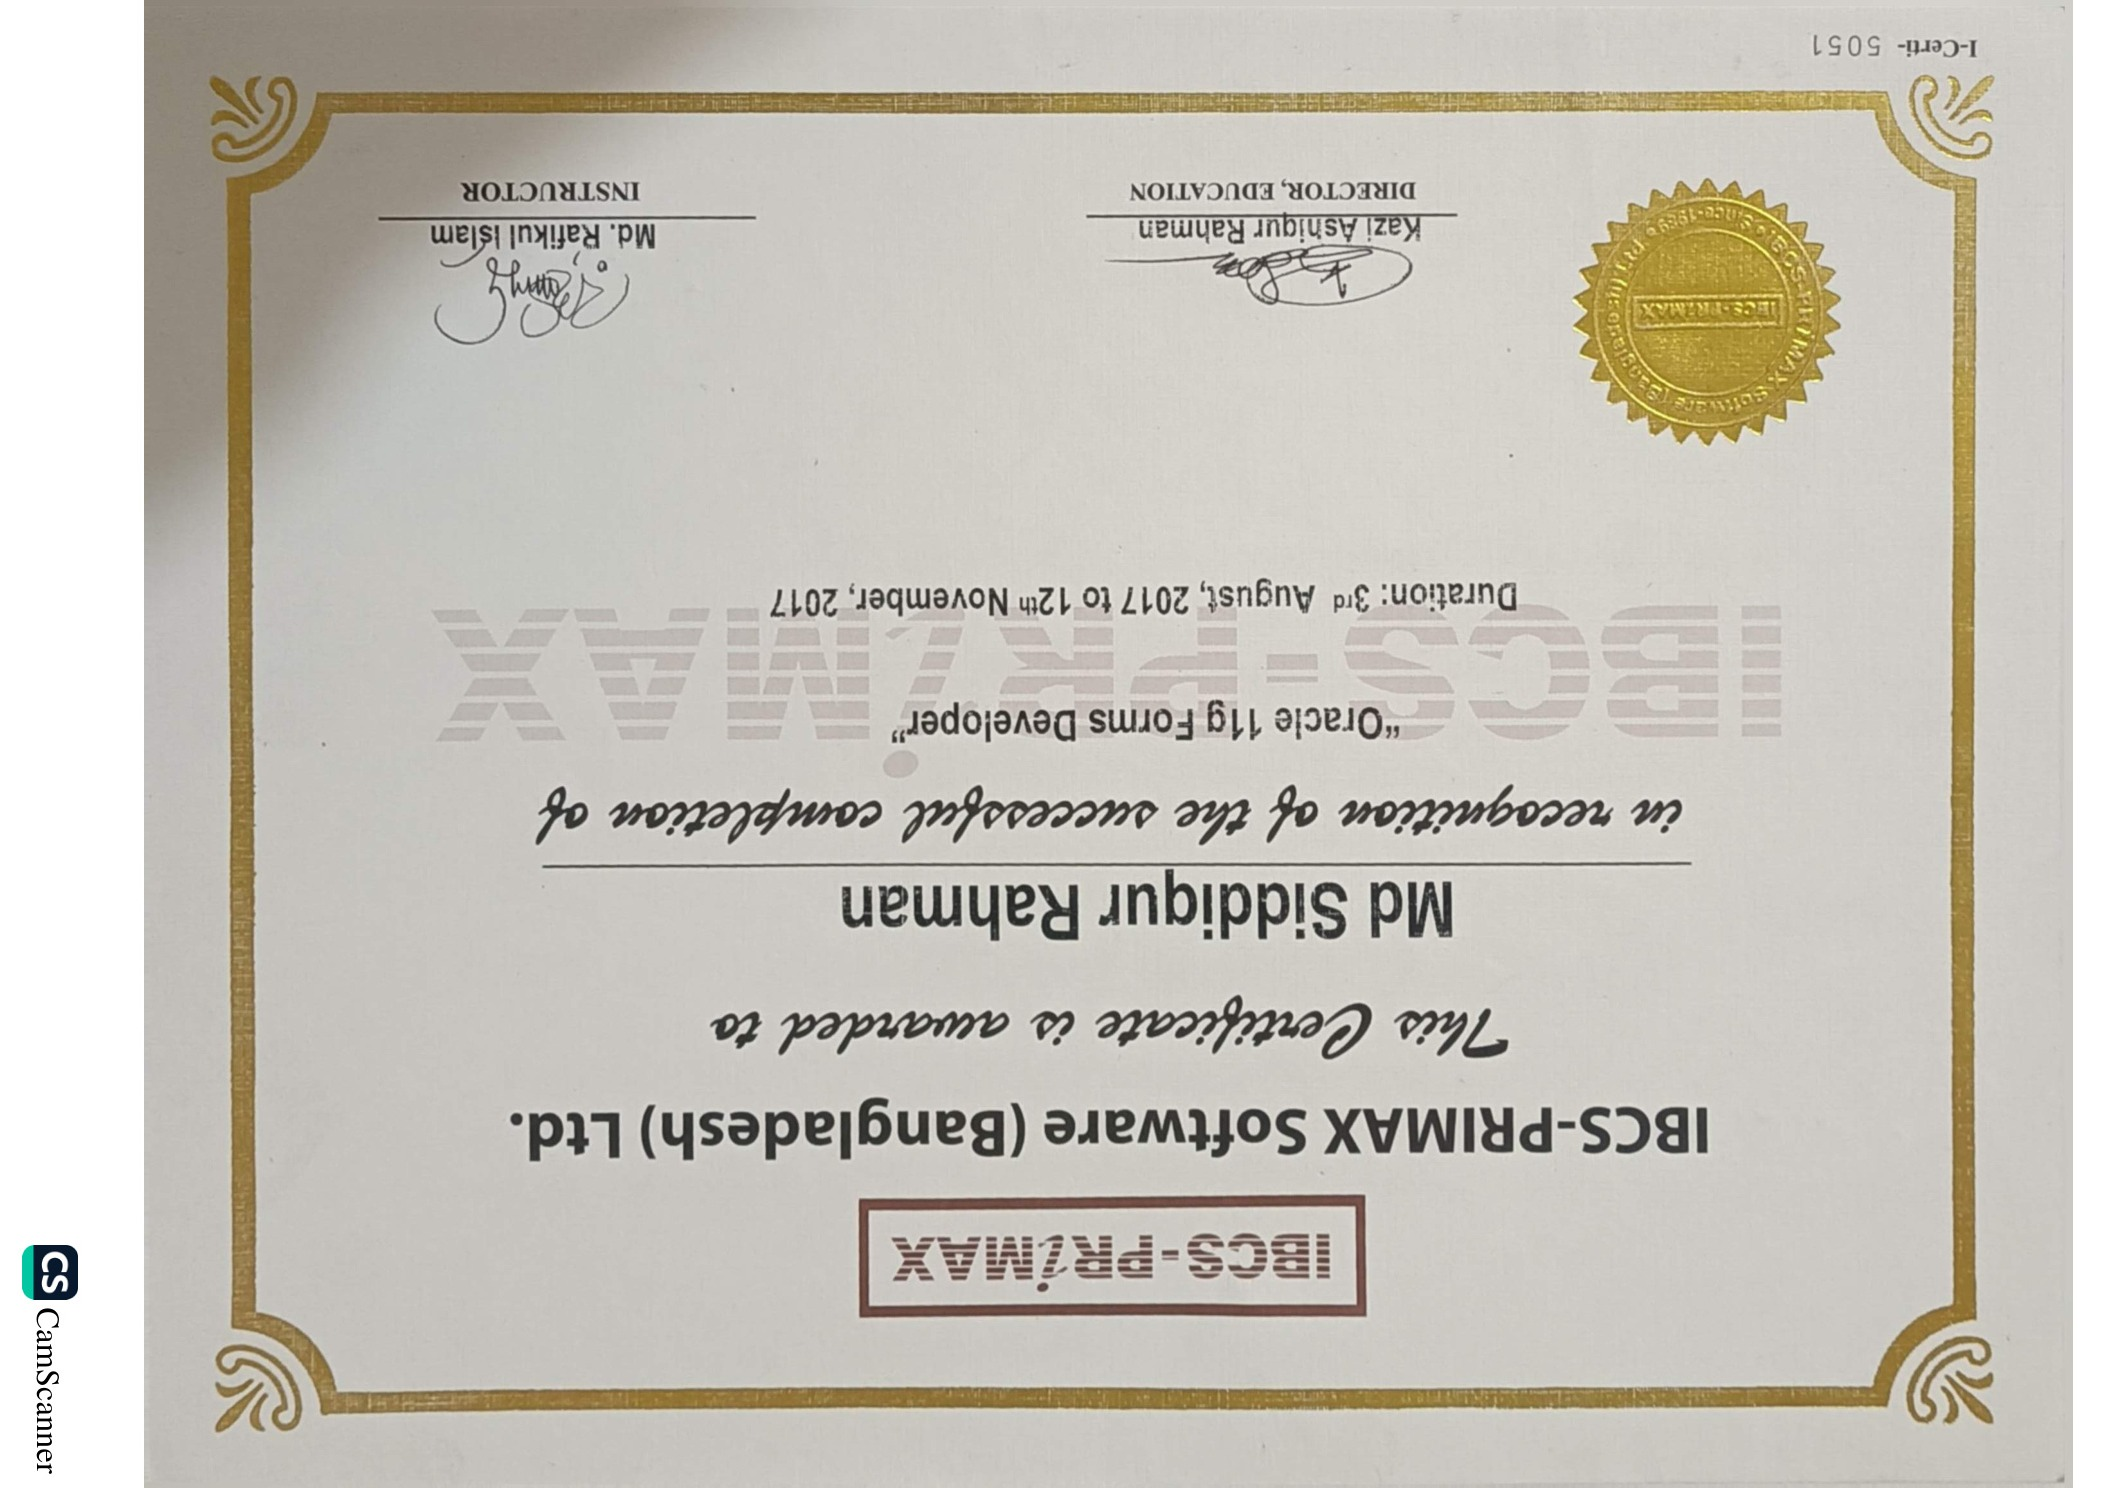
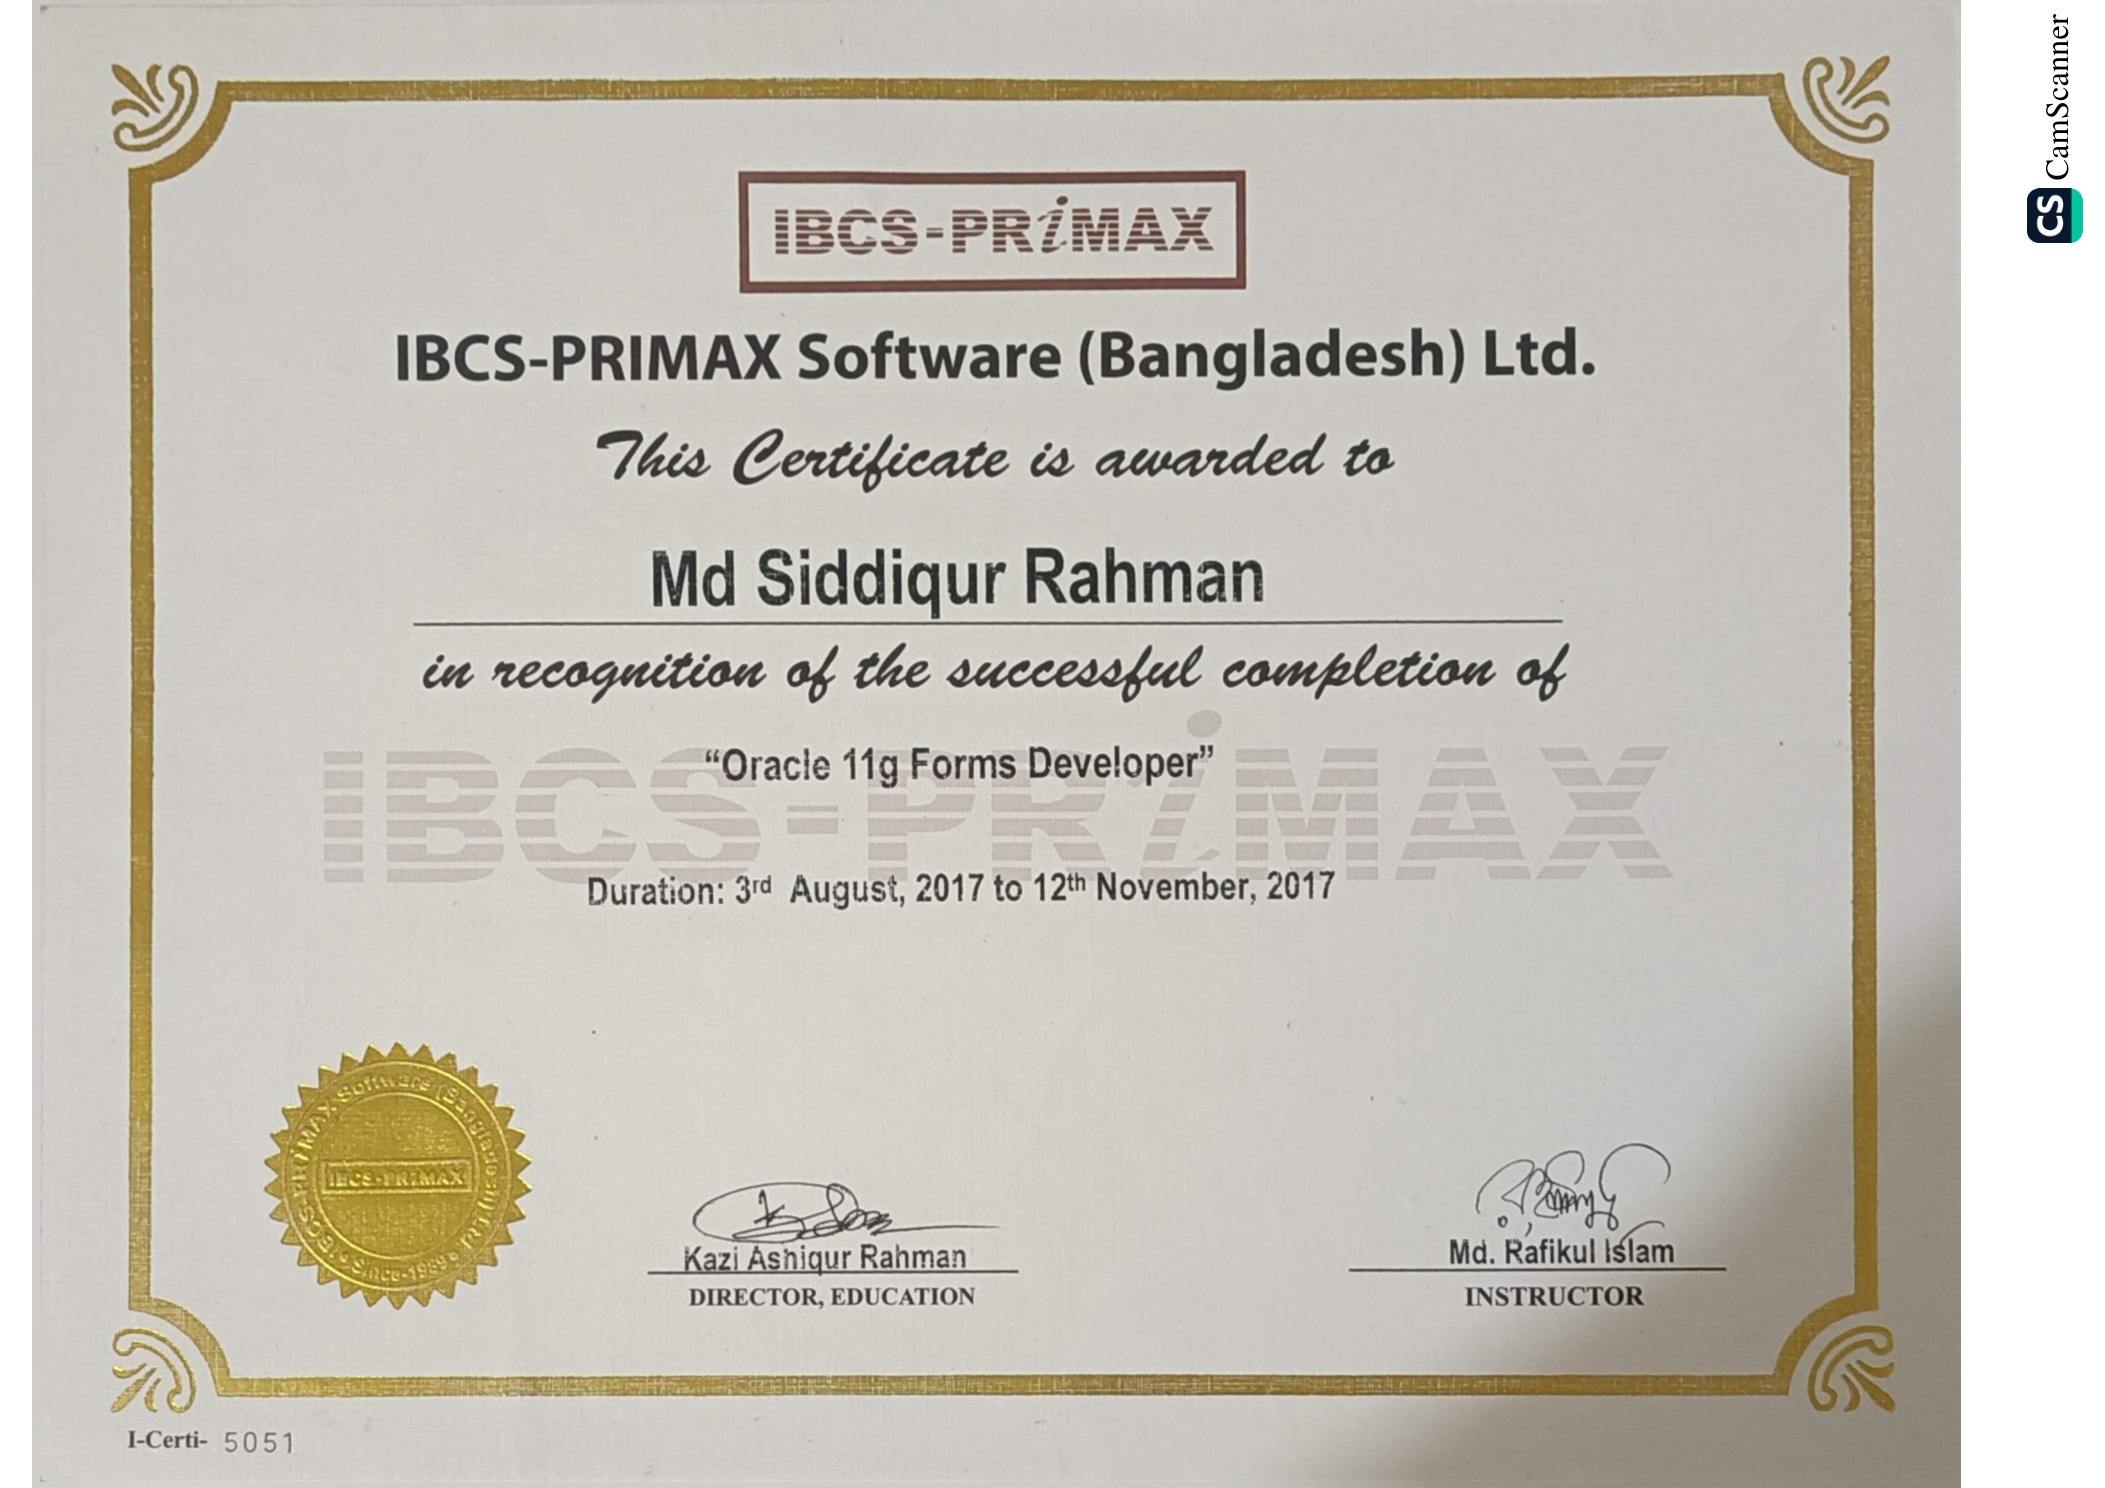
fix: rotate cert images 90deg CCW, cache bust v4

diff --git a/index.html b/index.html
@@ -595,7 +595,7 @@ footer{background:var(--bg);border-top:1px solid var(--cb);padding:2.5rem 0;text
 
       <div class="cert-card fu" onclick="openModal('cm-oracle')">
         <div class="cert-img-wrap">
-          <img src="assets/cert-oracle.jpg?v=3" alt="Oracle 11g Forms Developer Certificate">
+          <img src="assets/cert-oracle.jpg?v=4" alt="Oracle 11g Forms Developer Certificate">
           <div class="cert-ribbon">IBCS-PRIMAX</div>
           <div class="cert-eye"><i class="fas fa-expand-alt"></i></div>
         </div>
@@ -612,7 +612,7 @@ footer{background:var(--bg);border-top:1px solid var(--cb);padding:2.5rem 0;text
 
       <div class="cert-card fu" style="transition-delay:.15s" onclick="openModal('cm-android')">
         <div class="cert-img-wrap">
-          <img src="assets/cert-android.jpg?v=3" alt="Mobile App Development Android Certificate">
+          <img src="assets/cert-android.jpg?v=4" alt="Mobile App Development Android Certificate">
           <div class="cert-ribbon teal">BASIS · SEIP</div>
           <div class="cert-eye"><i class="fas fa-expand-alt"></i></div>
         </div>
@@ -926,7 +926,7 @@ footer{background:var(--bg);border-top:1px solid var(--cb);padding:2.5rem 0;text
     <div class="modal-body">
       <div class="modal-title">Oracle 11g Forms Developer</div>
       <div class="modal-tags"><span class="pt ta">Oracle</span><span class="pt tw">Database</span><span class="pt tfi">Forms</span></div>
-      <img src="assets/cert-oracle.jpg?v=3" alt="Oracle 11g Forms Developer Certificate" class="cert-modal-img">
+      <img src="assets/cert-oracle.jpg?v=4" alt="Oracle 11g Forms Developer Certificate" class="cert-modal-img">
       <p class="modal-desc">Professional training in Oracle 11g Forms Developer at IBCS-PRIMAX Software (Bangladesh) Ltd., covering Oracle Forms, PL/SQL, database design, and enterprise application development.</p>
       <div class="modal-section">
         <h4>Certificate Details</h4>
@@ -958,7 +958,7 @@ footer{background:var(--bg);border-top:1px solid var(--cb);padding:2.5rem 0;text
     <div class="modal-body">
       <div class="modal-title">Mobile Application Development – Android</div>
       <div class="modal-tags"><span class="pt ta">Android</span><span class="pt tf">Government</span><span class="pt tw">BASIS</span></div>
-      <img src="assets/cert-android.jpg?v=3" alt="Mobile App Development Android Certificate" class="cert-modal-img">
+      <img src="assets/cert-android.jpg?v=4" alt="Mobile App Development Android Certificate" class="cert-modal-img">
       <p class="modal-desc">Awarded by PencilBox Training Institute under the Skills for Employment Investment Program (SEIP), Finance Division, Ministry of Finance, Government of Bangladesh. 240 hours of intensive Android development training.</p>
       <div class="modal-section">
         <h4>Certificate Details</h4>
